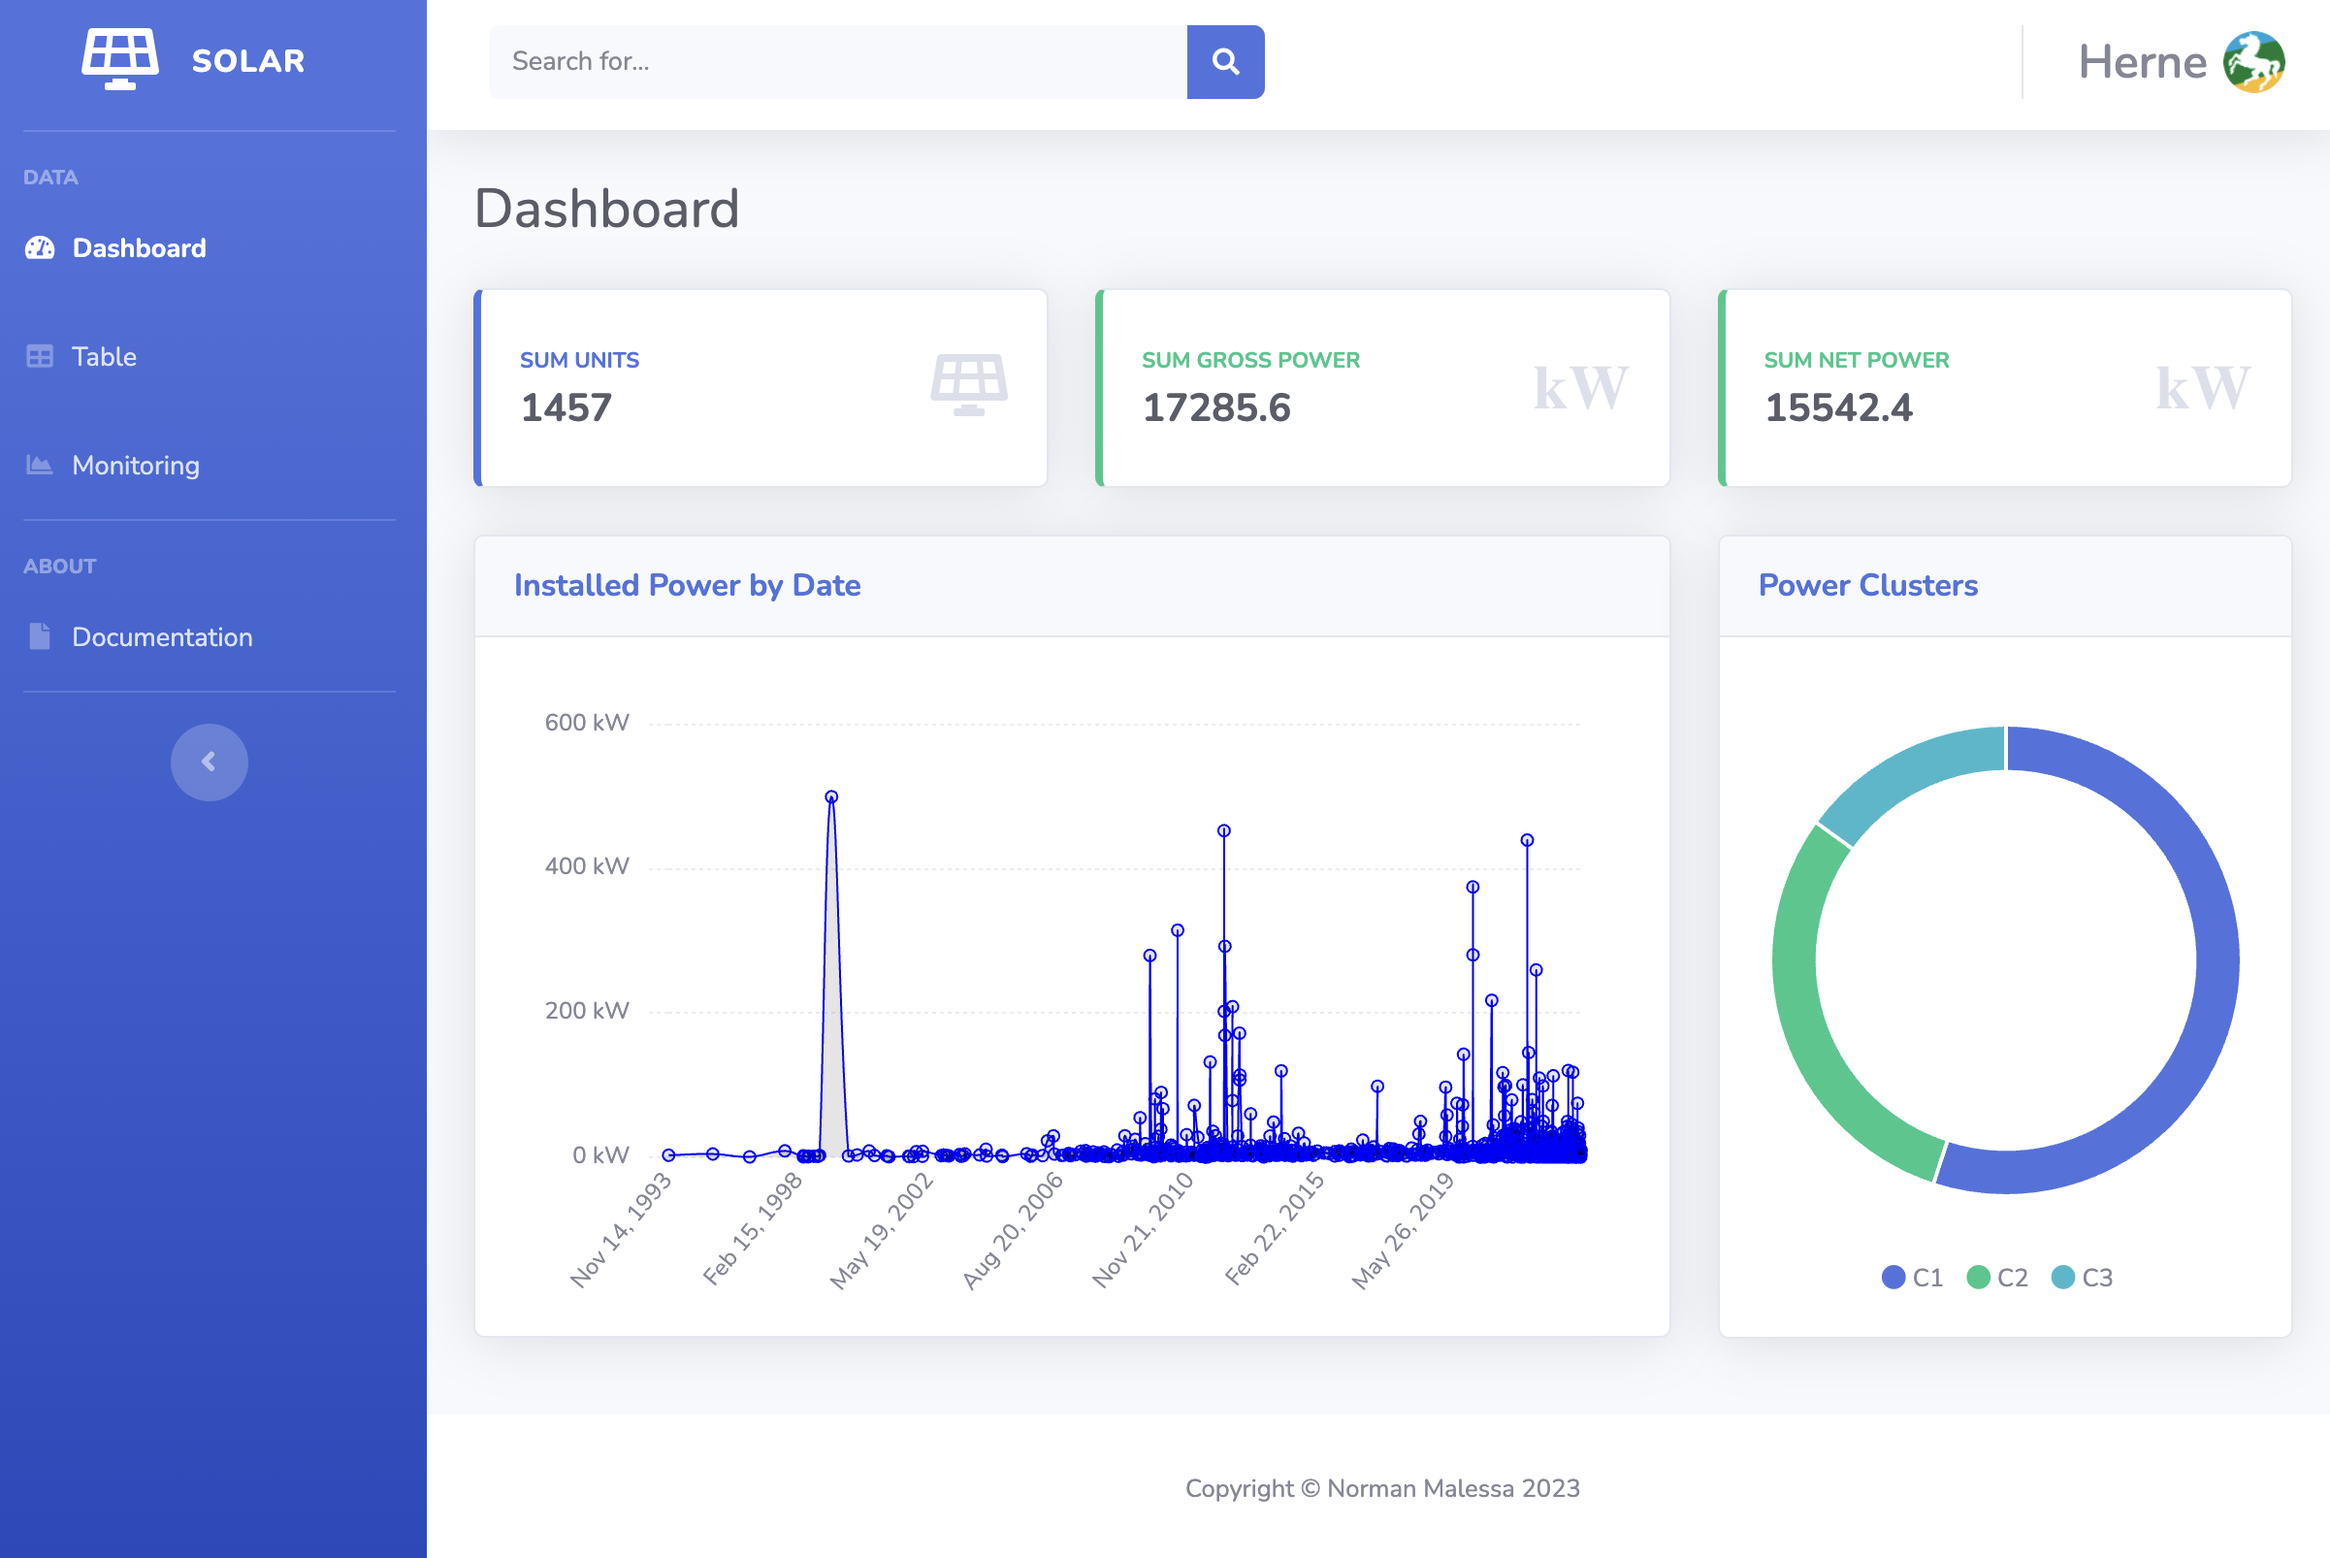
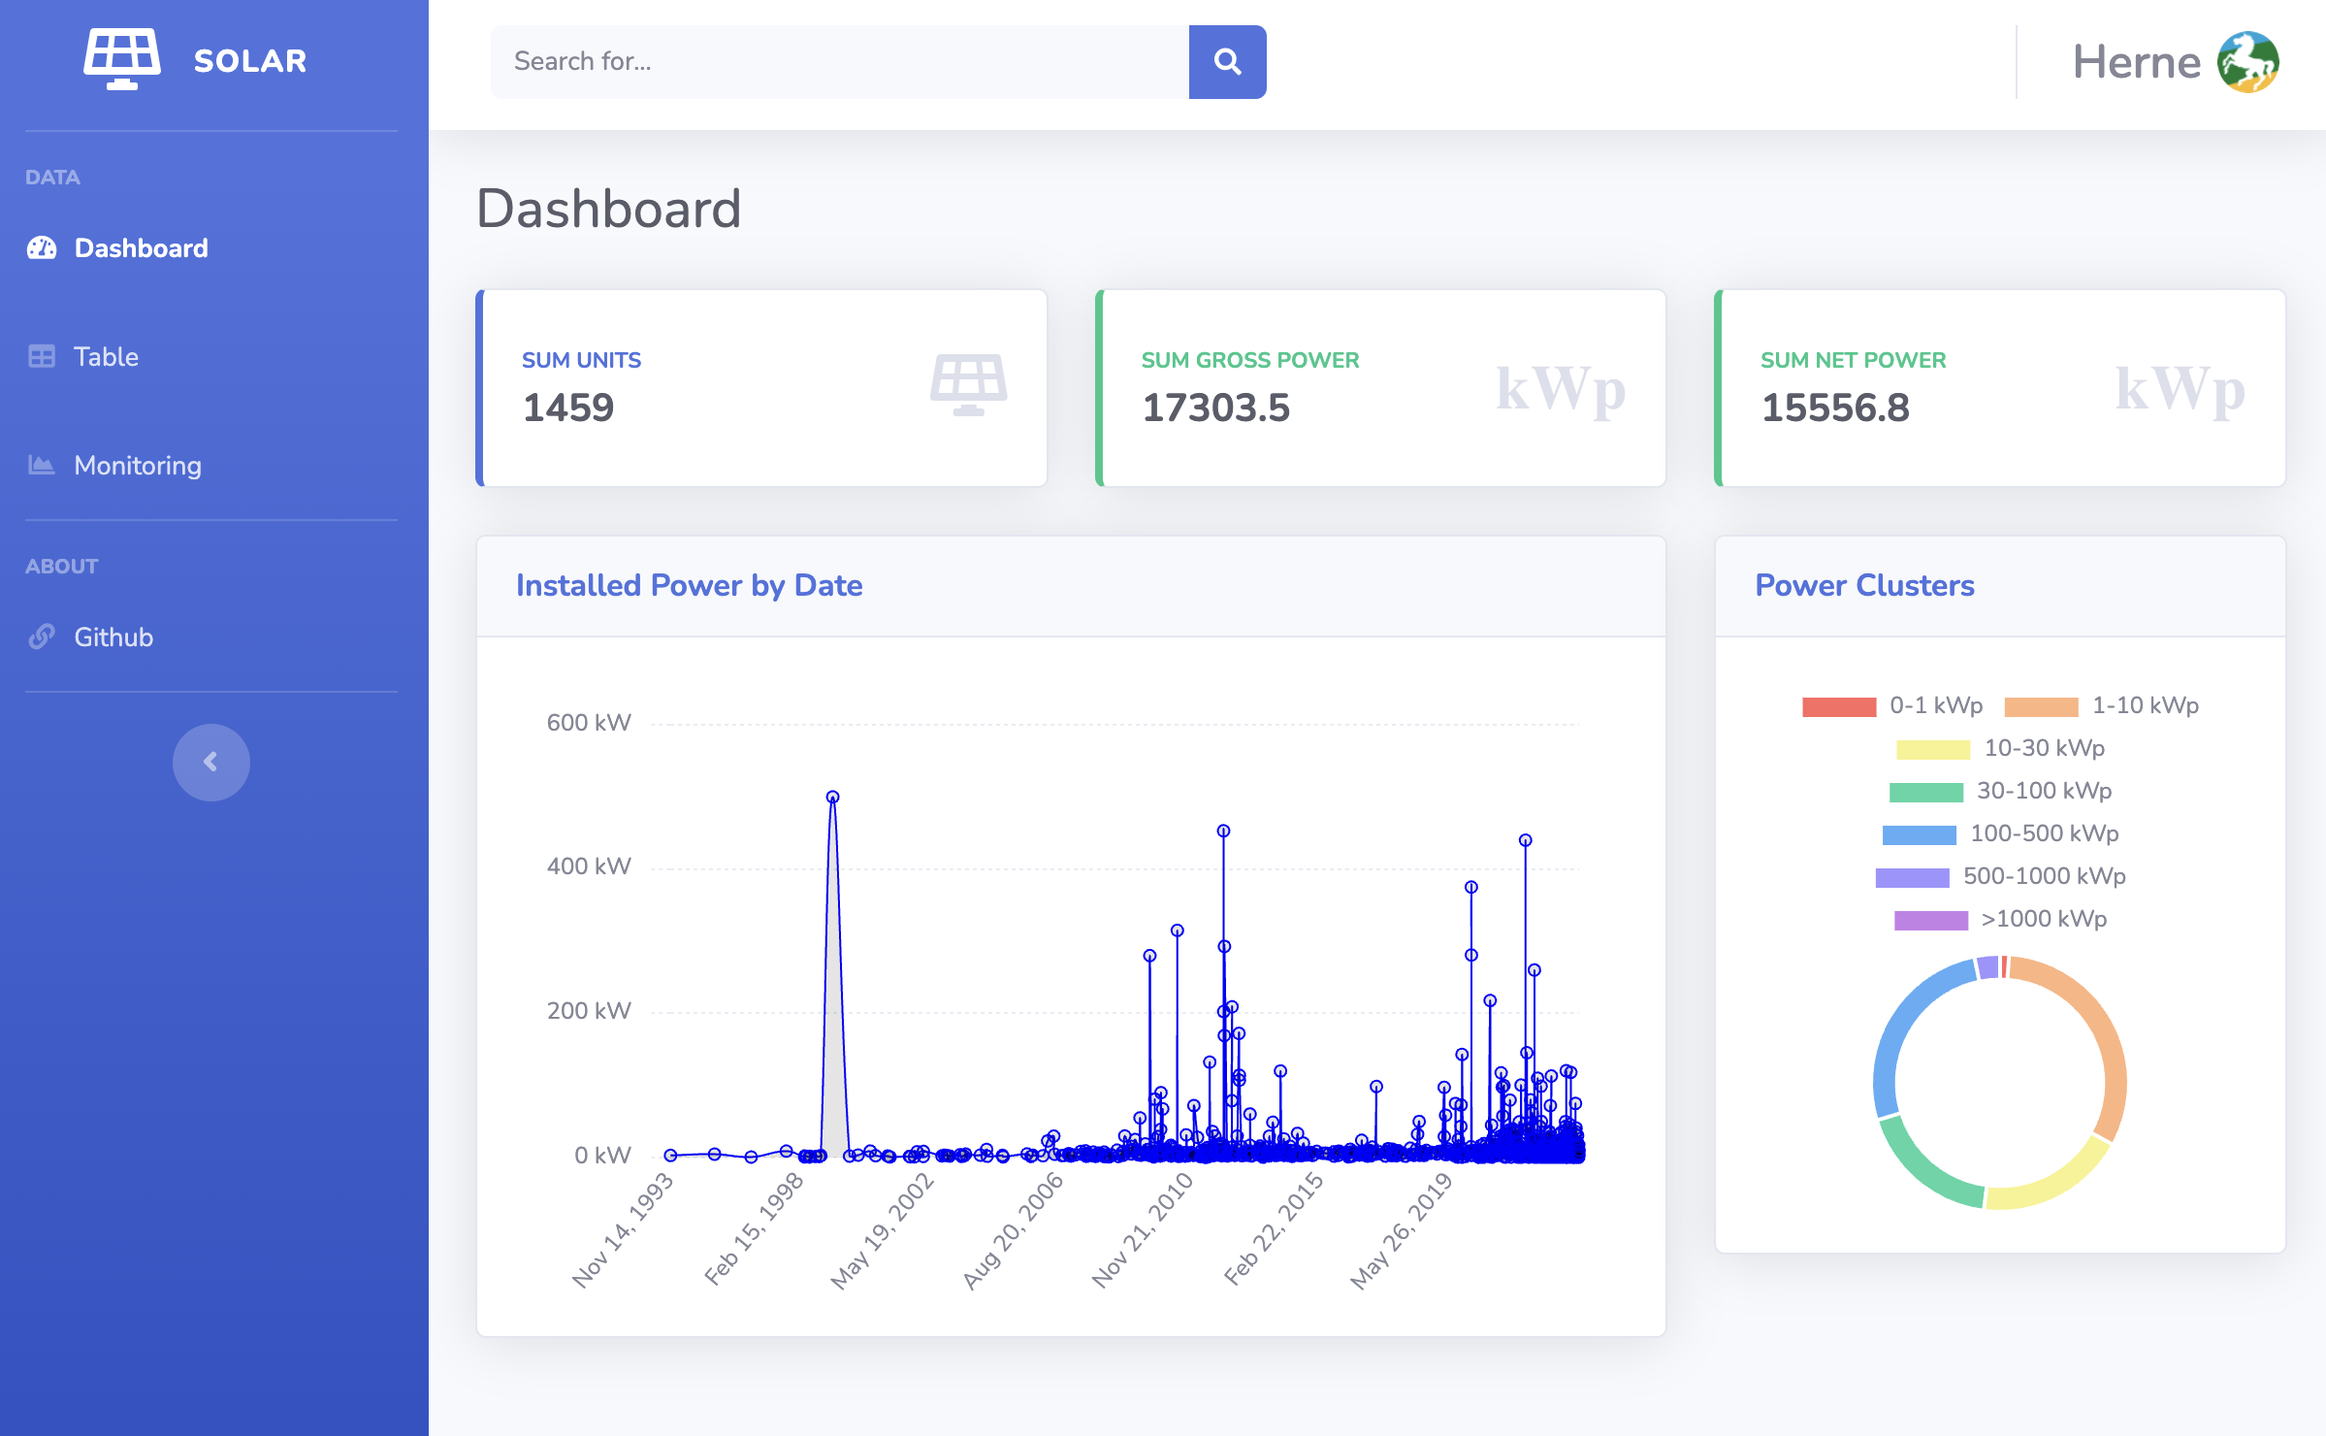
feat: add active net power timeline widget

diff --git a/server/public/js/demo/chart-area-demo.js b/server/public/js/demo/chart-area-demo.js
@@ -3,17 +3,76 @@ Chart.defaults.global.defaultFontFamily = 'Nunito', '-apple-system,system-ui,Bli
 Chart.defaults.global.defaultFontColor = '#858796';
 
 // Area Chart Example
-var ctx = document.getElementById("myAreaChart");
+var ctx = document.getElementById("netPowerChart");
 var myLineChart = new Chart(ctx, {
+  type: 'line',
+  data: {
+    labels: netPowerChartLabels,
+    datasets: [
+      {
+        label: "Net Power",
+        borderColor: "blue",
+        borderWidth: 1,
+        lineTension: 0,
+        data: netPowerChartValues,
+      }
+    ],
+  },
+  options: {
+    maintainAspectRatio: false,
+    layout: {
+      padding: {
+        left: 10,
+        right: 25,
+        top: 25,
+        bottom: 0
+      }
+    },
+    scales: {
+      xAxes: [{
+        type: 'time',
+        time: {
+          unit: 'day'
+        },
+        gridLines: {
+          display: false,
+          drawBorder: false
+        },
+        ticks: {
+          maxTicksLimit: 7
+        }
+      }],
+      yAxes: [{
+        ticks: {
+          maxTicksLimit: 5,
+          padding: 10,
+          callback: function(value, index, values) {
+            return value + ' kW';
+          }
+        },
+      }],
+    },
+    legend: {
+      display: false
+    }
+  }
+});
+
+// Area Chart Example
+var ctx2 = document.getElementById("myAreaChart");
+console.log(myAreaChartLabels);
+console.log(myAreaChartValuesUnits);
+var myLineChart = new Chart(ctx2, {
   type: 'line',
   data: {
     labels: myAreaChartLabels,
     datasets: [
       {
-        label: "Power",
+        label: "Units",
+        lineTension: 0,
         borderColor: "blue",
         borderWidth: 1,
-        data: myAreaChartValuesPower,
+        data: myAreaChartValuesUnits,
       }
     ],
   },
@@ -45,9 +104,6 @@ var myLineChart = new Chart(ctx, {
         ticks: {
           maxTicksLimit: 5,
           padding: 10,
-          callback: function(value, index, values) {
-            return value + ' kW';
-          }
         },
         gridLines: {
           color: "rgb(234, 236, 244)",

diff --git a/server/src/Controller/DashboardController.php b/server/src/Controller/DashboardController.php
@@ -64,6 +64,22 @@ class DashboardController extends AbstractController
 
         ksort($installedPowerByDay);
         ksort($installedUnitsByDay);
+        $installedCumulativeUnits = [];
+
+        foreach ($installedUnitsByDay as $day => $units) {
+            if (empty($installedCumulativeUnits)) {
+                $installedCumulativeUnits[$day] = $units;
+            } else {
+                $installedCumulativeUnits[$day] = $units + end($installedCumulativeUnits);
+            }
+        }
+
+        $activeResult = $this->forward('App\Controller\ApiController::activeList', ['city'  => 'herne']);
+        $filteredActive = [];
+
+        foreach (json_decode($activeResult->getContent()) as $active) {
+            $filteredActive[$active->ymd] = $active->net;
+        }
 
         return $this->render('default/dashboard.html.twig', [
             'sum' => [
@@ -75,13 +91,17 @@ class DashboardController extends AbstractController
                 'labels' => array_keys($installedPowerByDay),
                 'values' => [
                     'power' => array_values($installedPowerByDay),
-                    'units' => array_values($installedUnitsByDay), //@TODO unused
+                    'units' => array_values($installedCumulativeUnits),
                 ],
             ],
             'pieChart' => [ //@TODO rename
                 'labels' => array_keys($clusters),
                 'values' => array_values($clusters),
-            ]
+            ],
+            'netPowerChart' => [
+                'ymd' => array_keys($filteredActive),
+                'net' => array_values($filteredActive),
+            ],
         ]);
     }
 
@@ -99,10 +119,10 @@ class DashboardController extends AbstractController
         ]);
     }
 
-    #[Route('/monitoring', name: 'app_monitoring')]
+    #[Route('/imports', name: 'app_imports')]
     public function monitoring(ImportDataRepository $importDataRepository): Response 
     {
-        return $this->render('default/monitoring.html.twig', [
+        return $this->render('default/imports.html.twig', [
             'imports' => $importDataRepository->getImportOverview()
         ]);
     }

diff --git a/server/src/Repository/ImportDataRepository.php b/server/src/Repository/ImportDataRepository.php
@@ -21,27 +21,41 @@ class ImportDataRepository extends ServiceEntityRepository
         parent::__construct($registry, ImportData::class);
     }
 
-    public function getImportOverview(): array {
+    public function getImportOverview(?string $city = null): array {
+        $wheres = ['1=1'];
+
+        if ($city !== null) {
+            $wheres[] = 'city = :city';
+        }
+
+        $whereCondition = implode(' AND ', $wheres);
+
         $sql = <<<SQL
-            SELECT
-                ymd,
-                city,
-                SUM(1) AS units,
-                SUM(CAST(JSON_EXTRACT(value, "$.Bruttoleistung") AS FLOAT)) AS gross,
-                SUM(CAST(JSON_EXTRACT(value, "$.Nettonennleistung") AS FLOAT)) AS net
-            FROM
-                import_data AS id
-                CROSS JOIN JSON_TABLE(id.snapshot, '$[*]' COLUMNS (value JSON PATH '$')) jsontable
-            GROUP BY
-                ymd, city
-            ORDER BY
-                ymd DESC
-            ;
-        SQL;
+    SELECT
+        ymd,
+        city,
+        SUM(1) AS units,
+        SUM(CAST(JSON_EXTRACT(value, "$.Bruttoleistung") AS FLOAT)) AS gross,
+        SUM(CAST(JSON_EXTRACT(value, "$.Nettonennleistung") AS FLOAT)) AS net
+    FROM
+        import_data AS id
+        CROSS JOIN JSON_TABLE(id.snapshot, '$[*]' COLUMNS (value JSON PATH '$')) jsontable
+    WHERE
+        {$whereCondition}
+    GROUP BY
+        ymd, city
+    ORDER BY
+        ymd DESC
+    ;
+SQL;
 
         $em = $this->getEntityManager();
         $stmt = $em->getConnection()->prepare($sql);
-        // ie. $stmt->bindValue('bla', $bla);
+
+        if ($city !== null) {
+            $stmt->bindValue('city', $city);
+        }
+
         return $stmt->executeQuery()->fetchAllAssociative();
     }
 }

diff --git a/server/src/Controller/ApiController.php b/server/src/Controller/ApiController.php
@@ -3,21 +3,35 @@
 namespace App\Controller;
 
 use App\Importer\SoapClient;
+use App\Repository\ImportDataRepository;
 use Symfony\Bundle\FrameworkBundle\Controller\AbstractController;
 use Symfony\Component\HttpFoundation\JsonResponse;
+use Symfony\Component\HttpFoundation\Request;
 use Symfony\Component\Routing\Annotation\Route;
 
+#[Route('/api')]
 class ApiController extends AbstractController
 {
-    #[Route('/api', name: 'app_api')]
-    public function index(): JsonResponse
+    #[Route('/v1/active', name: 'app_api_active_list')]
+    public function activeList(Request $request, ImportDataRepository $importDataRepository): JsonResponse
+    {
+        $datas = $importDataRepository->getImportOverview($request->get('city', null));
+        array_walk($datas, function (&$data) {
+            $data['ymd'] = \DateTime::createFromFormat('Ymd', $data['ymd'])->format('Y-m-d');
+        });
+
+        return $this->json($datas);
+    }
+
+    #[Route('/rate-limit', name: 'app_api_rate_limit')]
+    public function rateLimit(): JsonResponse
     {
         $apiKey = $this->getParameter('app.mastr_api_key');
         $apiUser = $this->getParameter('app.mastr_api_user');
 
         $soap = new SoapClient($apiKey, $apiUser);
 
-        var_dump(
+        return $this->json(
             $soap->GetAktuellerStandTageskontingent(
                 [
                     'apiKey' => $apiKey,
@@ -25,9 +39,5 @@ class ApiController extends AbstractController
                 ]
             )
         );
-        
-        exit;
-
-        return $this->json([]);
     }
 }

diff --git a/docs/sql-analysis.md b/docs/sql-analysis.md
@@ -15,3 +15,20 @@ ORDER BY
 	brutto DESC
 ;
 ```
+
+```sql
+SELECT
+	ymd,
+    city,
+    SUM(1) AS units,
+	SUM(CAST(JSON_EXTRACT(value, "$.Bruttoleistung") AS FLOAT)) AS brutto,
+    SUM(CAST(JSON_EXTRACT(value, "$.Nettonennleistung") AS FLOAT)) AS netto
+FROM
+	import_data AS id
+    CROSS JOIN JSON_TABLE(id.snapshot, '$[*]' COLUMNS (value JSON PATH '$')) jsontable
+WHERE
+    city = 'herne'
+group by ymd
+ORDER BY
+	ymd DESC
+```
